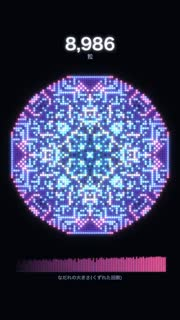
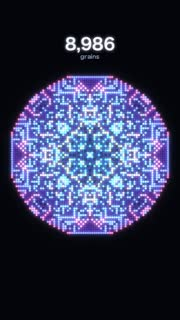
要の上のランク「完了」を足す。sandpile を完了に(本番の動画へのリンク、サムネも新しい版に)

diff --git a/index.html b/index.html
@@ -3,7 +3,7 @@
 <meta name="viewport" content="width=device-width,initial-scale=1,viewport-fit=cover">
 <title>shorts2d 絞り込み</title>
 <style>
-:root{--bg:#0b0d12;--card:#151821;--fg:#e8ebf2;--sub:#8a93a6;--yes:#3ddc84;--hold:#f5c542;--no:#ff5a6a}
+:root{--bg:#0b0d12;--card:#151821;--fg:#e8ebf2;--sub:#8a93a6;--done:#5aa9ff;--yes:#3ddc84;--hold:#f5c542;--no:#ff5a6a}
 *{box-sizing:border-box}
 body{margin:0;background:var(--bg);color:var(--fg);font-family:-apple-system,"Hiragino Sans","Noto Sans JP",sans-serif}
 header{position:sticky;top:0;z-index:5;background:rgba(11,13,18,.96);padding:8px 10px 6px;border-bottom:1px solid #222}
@@ -17,15 +17,15 @@ h1{font-size:16px;margin:0 0 4px}
 .note{font-size:11px;color:var(--sub)}
 main{display:grid;grid-template-columns:repeat(auto-fill,minmax(150px,1fr));gap:10px;padding:10px}
 .card{background:var(--card);border-radius:10px;overflow:hidden;border:3px solid transparent}
-.card.yes{border-color:var(--yes)}.card.hold{border-color:var(--hold)}.card.no{border-color:var(--no);opacity:.45}
+.card.done{border-color:var(--done)}.card.yes{border-color:var(--yes)}.card.hold{border-color:var(--hold)}.card.no{border-color:var(--no);opacity:.45}
 .card a{display:block}
 .card img{width:100%;aspect-ratio:9/16;display:block;object-fit:cover;background:#000}
 .t{font-size:13px;font-weight:600;padding:6px 7px 0;line-height:1.3}
 .d{font-size:11px;color:var(--sub);padding:2px 7px 0;line-height:1.35;max-height:4.1em;overflow:hidden}
 .n{font-size:10px;color:#5d6577;padding:2px 7px 0}
 .seg{display:flex;gap:4px;padding:7px}
-.seg button{flex:1;padding:9px 0;border-radius:7px;border:0;background:#232838;color:var(--fg);font-size:14px}
-.seg button.yes.on{background:var(--yes);color:#000}.seg button.hold.on{background:var(--hold);color:#000}.seg button.no.on{background:var(--no);color:#000}
+.seg button{flex:1;padding:9px 0;border-radius:7px;border:0;background:#232838;color:var(--fg);font-size:13px}
+.seg button.done.on{background:var(--done);color:#000}.seg button.yes.on{background:var(--yes);color:#000}.seg button.hold.on{background:var(--hold);color:#000}.seg button.no.on{background:var(--no);color:#000}
 #toast{position:fixed;left:50%;bottom:24px;transform:translateX(-50%);background:#fff;color:#000;padding:8px 14px;border-radius:18px;font-size:14px;display:none;z-index:9}
 </style></head><body>
 <header>
@@ -33,28 +33,33 @@ main{display:grid;grid-template-columns:repeat(auto-fill,minmax(150px,1fr));gap:
 <div class="counts" id="counts"></div>
 <div class="row" id="filters"></div>
 <div class="row"><button class="act" onclick="send()">結果を送る(Issue)</button><button class="act" onclick="copy()">結果をコピー</button></div>
-<div class="note">サムネを押すと動画(60秒の確認用)が開きます。動画を開くには GitHub へのログインが要ります。選んだ結果はこのブラウザに保存されます。</div>
+<div class="note">サムネを押すと動画(60秒の確認用。完了は本番)が開きます。動画を開くには GitHub へのログインが要ります。選んだ結果はこのブラウザに保存されます。</div>
 </header>
 <main id="grid"></main>
 <div id="toast"></div>
 <script>
-const DATA = [{"i": 1, "name": "apollonian_gasket", "title": "整数の円のガスケット", "desc": "すき間に接する円を大きい順に入れると、曲率(1/半径)が全部整数。拡大しても整数", "url": "https://github.com/seoooma/shorts2d/releases/download/previews/apollonian_gasket_60s_preview.mp4"}, {"i": 2, "name": "brachistochrone", "title": "最速降下線", "desc": "A から B へ玉を転がす5本の道で競争するとサイクロイドが勝つ。しかもサイクロイドのおわんは、どこから放しても同じ時間で底に着く", "url": "https://github.com/seoooma/shorts2d/releases/download/previews/brachistochrone_60s_preview.mp4"}, {"i": 3, "name": "chladni", "title": "砂が描く模様", "desc": "震える板の上の砂が、揺れない線(節)に集まる", "url": "https://github.com/seoooma/shorts2d/releases/download/previews/chladni_60s_preview.mp4"}, {"i": 4, "name": "clifford_attractor", "title": "形を変える光の霧", "desc": "7つの星が霧に広がり、ねじれ・裂け・また7つの星に縮んで、また霧に", "url": "https://github.com/seoooma/shorts2d/releases/download/previews/clifford_attractor_60s_preview.mp4"}, {"i": 5, "name": "cyclotron", "title": "サイクロトロン", "desc": "同じテンポで押すだけで、粒は速くなりながららせんを描いて飛び出す。重さの違う粒は取り残される", "url": "https://github.com/seoooma/shorts2d/releases/download/previews/cyclotron_60s_preview.mp4"}, {"i": 6, "name": "dragon_fold", "title": "紙を折るドラゴン", "desc": "紙テープを半分に折って開くことをくり返すと、竜の形(ドラゴン曲線)になり、4匹で平面をうめる", "url": "https://github.com/seoooma/shorts2d/releases/download/previews/dragon_fold_60s_preview.mp4"}, {"i": 7, "name": "ellipse_foci", "title": "楕円の焦点で増える玉", "desc": "玉が焦点の○を通るたびに、そこから新しい玉が1個出る", "url": "https://github.com/seoooma/shorts2d/releases/download/previews/ellipse_foci_60s_preview.mp4"}, {"i": 8, "name": "figure_eight_3body", "title": "8の字を追う三体", "desc": "同じ並びから速さを変えて放すと、3つの星が8の字・蝶・蛾・毛糸玉を描いて元に戻る。少しずらすと崩れて1つが飛び去る", "url": "https://github.com/seoooma/shorts2d/releases/download/previews/figure_eight_3body_60s_preview.mp4"}, {"i": 9, "name": "firefly_sync", "title": "ホタルがそろう", "desc": "1000匹がばらばらに光る → 合わせる力 K が臨界をこえると一気に同じ拍 → K を下げるとまたばらばら", "url": "https://github.com/seoooma/shorts2d/releases/download/previews/firefly_sync_60s_preview.mp4"}, {"i": 10, "name": "fourier_circles", "title": "回る円で絵を描く", "desc": "回る円を大きい順に鎖のようにつなぐと、先端が ♪・π・ハート・星を描く(フーリエ級数)", "url": "https://github.com/seoooma/shorts2d/releases/download/previews/fourier_circles_60s_preview.mp4"}, {"i": 11, "name": "genetic_cars", "title": "Genetic algorithm cars", "desc": "40 random car shapes evolve to cross a bumpy road (like BoxCar2D)", "url": "https://github.com/seoooma/shorts2d/releases/download/previews/genetic_cars_60s_preview.mp4"}, {"i": 12, "name": "genetic_rockets", "title": "世代ごとに賢くなるロケット", "desc": "遺伝的アルゴリズムで、200機がすき間を見つけてゴールへ", "url": "https://github.com/seoooma/shorts2d/releases/download/previews/genetic_rockets_60s_preview.mp4"}, {"i": 13, "name": "hanoi_music", "title": "ハノイの塔の旋律", "desc": "9枚の円盤を 511 手で右の棒へ。動かす円盤の並びは「ものさし」の目盛りと同じ形", "url": "https://github.com/seoooma/shorts2d/releases/download/previews/hanoi_music_60s_preview.mp4"}, {"i": 14, "name": "life_methuselah", "title": "5マスが1103世代暴れる", "desc": "ライフゲームの R-ペントミノ。たった5マスが増えて、グライダーを撃ち出し、1103世代で静まる", "url": "https://github.com/seoooma/shorts2d/releases/download/previews/life_methuselah_60s_preview.mp4"}, {"i": 15, "name": "logistic_bifurcation", "title": "分岐の音を聴く", "desc": "r を上げると 1→2→4→8→カオス、周期3の窓、拡大すると同じ形", "url": "https://github.com/seoooma/shorts2d/releases/download/previews/logistic_bifurcation_60s_preview.mp4"}, {"i": 16, "name": "mandel_julia", "title": "マンデルブロとジュリア", "desc": "光る点 c が M のふちをなぞると、下のジュリア集合がうさぎ・竜・木の枝に変わり、外へ出ると粉々に", "url": "https://github.com/seoooma/shorts2d/releases/download/previews/mandel_julia_60s_preview.mp4"}, {"i": 17, "name": "maze_solver", "title": "迷路を作って解く", "desc": "穴掘り法で迷路を掘り、入口から幅優先探索で虹色の水を流して、最短の道を光らせる", "url": "https://github.com/seoooma/shorts2d/releases/download/previews/maze_solver_60s_preview.mp4"}, {"i": 18, "name": "pendulum_wave", "title": "振り子の波", "desc": "長さのちがう24本の振り子を同時に放すと、波・列・ばらばらを経て、57秒でぴたりとそろう", "url": "https://github.com/seoooma/shorts2d/releases/download/previews/pendulum_wave_60s_preview.mp4"}, {"i": 19, "name": "penrose_deflation", "title": "終わらないペンローズ", "desc": "10枚の三角形の「太陽」を黄金比で割り続けると、ペンローズのタイルになり、どこまでも拡大できる", "url": "https://github.com/seoooma/shorts2d/releases/download/previews/penrose_deflation_60s_preview.mp4"}, {"i": 20, "name": "perlin_silk", "title": "パーリンノイズの絹糸", "desc": "ノイズの値を「流れの向き」にして2万粒を流すと、軌跡が絹糸のように束になる", "url": "https://github.com/seoooma/shorts2d/releases/download/previews/perlin_silk_60s_preview.mp4"}, {"i": 21, "name": "pi_blocks", "title": "ぶつかる回数がπ", "desc": "壁と2つの箱(Galperin の箱)。重さの比を 1:1 → 1:100 → 1:100² → 1:100³ と上げると、3 → 31 → 314 → 3141 回", "url": "https://github.com/seoooma/shorts2d/releases/download/previews/pi_blocks_60s_preview.mp4"}, {"i": 22, "name": "prime_spirals", "title": "素数のらせん", "desc": "ふるいで残った素数を、四角いらせん(ウラム)から極座標 (半径 n, 角度 n ラジアン) へ移すと、渦と筋が現れる", "url": "https://github.com/seoooma/shorts2d/releases/download/previews/prime_spirals_60s_preview.mp4"}, {"i": 23, "name": "rayleigh_benard", "title": "下から温める水", "desc": "底の熱がキノコ形の柱で一斉に昇り、回る対流になり、火を強めると乱れ、止めると静まる", "url": "https://github.com/seoooma/shorts2d/releases/download/previews/rayleigh_benard_60s_preview.mp4"}, {"i": 24, "name": "ring_escape", "title": "回る輪から逃げる玉", "desc": "20重の回る輪のすき間を、重力で跳ねる玉が抜けるたびに輪が光の粒に砕け、玉が2個に増える", "url": "https://github.com/seoooma/shorts2d/releases/download/previews/ring_escape_60s_preview.mp4"}, {"i": 25, "name": "sandpile", "title": "砂山の曼荼羅", "desc": "真ん中に砂を落とし続け、4粒たまった所は上下左右へ1粒ずつ配る(アーベルの砂山モデル)", "url": "https://github.com/seoooma/shorts2d/releases/download/previews/sandpile_60s_preview.mp4"}, {"i": 26, "name": "snake_hamilton", "title": "画面を埋めつくすヘビ", "desc": "ハミルトン閉路と安全な近道のスネーク AI が、18×32 の 576 マスを全部ヘビにする", "url": "https://github.com/seoooma/shorts2d/releases/download/previews/snake_hamilton_60s_preview.mp4"}, {"i": 27, "name": "sorting_rainbow", "title": "並べ替えの虹", "desc": "円の周りの360本の棒(長さと色が値)を、5つのアルゴリズムで順に並べ替える", "url": "https://github.com/seoooma/shorts2d/releases/download/previews/sorting_rainbow_60s_preview.mp4"}, {"i": 28, "name": "swarmalators", "title": "動いて そろう粒", "desc": "1000粒が、2つのつまみ J・K の切り替えで 1色の円盤 → 虹の輪 → ちぎれた扇 → 回る輪 に変身する", "url": "https://github.com/seoooma/shorts2d/releases/download/previews/swarmalators_60s_preview.mp4"}, {"i": 29, "name": "tetris_ai", "title": "AIがテトリスで1000行消す", "desc": "全部の置き方を Dellacherie の評価関数で採点して、いちばん点の高い所に置く", "url": "https://github.com/seoooma/shorts2d/releases/download/previews/tetris_ai_60s_preview.mp4"}, {"i": 30, "name": "times_table_circle", "title": "円の掛け算表", "desc": "円の上の200個の点で、k 番と m×k 番(200で割った余り)を線で結ぶ。m を増やすと形が次々に変わる", "url": "https://github.com/seoooma/shorts2d/releases/download/previews/times_table_circle_60s_preview.mp4"}];
+const DATA = [{"i": 25, "name": "sandpile", "title": "砂山の曼荼羅", "desc": "真ん中に砂を落とし続け、4粒たまった所は上下左右へ1粒ずつ配る(アーベルの砂山モデル)", "rank": "done", "url": "https://github.com/seoooma/shorts2d/releases/download/finals/sandpile_60s.mp4"}, {"i": 6, "name": "dragon_fold", "title": "紙を折るドラゴン", "desc": "紙テープを半分に折って開くことをくり返すと、竜の形(ドラゴン曲線)になり、4匹で平面をうめる", "rank": "yes", "url": "https://github.com/seoooma/shorts2d/releases/download/previews/dragon_fold_60s_preview.mp4"}, {"i": 7, "name": "ellipse_foci", "title": "楕円の焦点で増える玉", "desc": "玉が焦点の○を通るたびに、そこから新しい玉が1個出る", "rank": "yes", "url": "https://github.com/seoooma/shorts2d/releases/download/previews/ellipse_foci_60s_preview.mp4"}, {"i": 10, "name": "fourier_circles", "title": "回る円で絵を描く", "desc": "回る円を大きい順に鎖のようにつなぐと、先端が ♪・π・ハート・星を描く(フーリエ級数)", "rank": "yes", "url": "https://github.com/seoooma/shorts2d/releases/download/previews/fourier_circles_60s_preview.mp4"}, {"i": 12, "name": "genetic_rockets", "title": "世代ごとに賢くなるロケット", "desc": "遺伝的アルゴリズムで、200機がすき間を見つけてゴールへ", "rank": "yes", "url": "https://github.com/seoooma/shorts2d/releases/download/previews/genetic_rockets_60s_preview.mp4"}, {"i": 13, "name": "hanoi_music", "title": "ハノイの塔の旋律", "desc": "9枚の円盤を 511 手で右の棒へ。動かす円盤の並びは「ものさし」の目盛りと同じ形", "rank": "yes", "url": "https://github.com/seoooma/shorts2d/releases/download/previews/hanoi_music_60s_preview.mp4"}, {"i": 14, "name": "life_methuselah", "title": "5マスが1103世代暴れる", "desc": "ライフゲームの R-ペントミノ。たった5マスが増えて、グライダーを撃ち出し、1103世代で静まる", "rank": "yes", "url": "https://github.com/seoooma/shorts2d/releases/download/previews/life_methuselah_60s_preview.mp4"}, {"i": 15, "name": "logistic_bifurcation", "title": "分岐の音を聴く", "desc": "r を上げると 1→2→4→8→カオス、周期3の窓、拡大すると同じ形", "rank": "yes", "url": "https://github.com/seoooma/shorts2d/releases/download/previews/logistic_bifurcation_60s_preview.mp4"}, {"i": 18, "name": "pendulum_wave", "title": "振り子の波", "desc": "長さのちがう24本の振り子を同時に放すと、波・列・ばらばらを経て、57秒でぴたりとそろう", "rank": "yes", "url": "https://github.com/seoooma/shorts2d/releases/download/previews/pendulum_wave_60s_preview.mp4"}, {"i": 24, "name": "ring_escape", "title": "回る輪から逃げる玉", "desc": "20重の回る輪のすき間を、重力で跳ねる玉が抜けるたびに輪が光の粒に砕け、玉が2個に増える", "rank": "yes", "url": "https://github.com/seoooma/shorts2d/releases/download/previews/ring_escape_60s_preview.mp4"}, {"i": 27, "name": "sorting_rainbow", "title": "並べ替えの虹", "desc": "円の周りの360本の棒(長さと色が値)を、5つのアルゴリズムで順に並べ替える", "rank": "yes", "url": "https://github.com/seoooma/shorts2d/releases/download/previews/sorting_rainbow_60s_preview.mp4"}, {"i": 29, "name": "tetris_ai", "title": "AIがテトリスで1000行消す", "desc": "全部の置き方を Dellacherie の評価関数で採点して、いちばん点の高い所に置く", "rank": "yes", "url": "https://github.com/seoooma/shorts2d/releases/download/previews/tetris_ai_60s_preview.mp4"}, {"i": 30, "name": "times_table_circle", "title": "円の掛け算表", "desc": "円の上の200個の点で、k 番と m×k 番(200で割った余り)を線で結ぶ。m を増やすと形が次々に変わる", "rank": "yes", "url": "https://github.com/seoooma/shorts2d/releases/download/previews/times_table_circle_60s_preview.mp4"}, {"i": 1, "name": "apollonian_gasket", "title": "整数の円のガスケット", "desc": "すき間に接する円を大きい順に入れると、曲率(1/半径)が全部整数。拡大しても整数", "rank": "hold", "url": "https://github.com/seoooma/shorts2d/releases/download/previews/apollonian_gasket_60s_preview.mp4"}, {"i": 2, "name": "brachistochrone", "title": "最速降下線", "desc": "A から B へ玉を転がす5本の道で競争するとサイクロイドが勝つ。しかもサイクロイドのおわんは、どこから放しても同じ時間で底に着く", "rank": "hold", "url": "https://github.com/seoooma/shorts2d/releases/download/previews/brachistochrone_60s_preview.mp4"}, {"i": 3, "name": "chladni", "title": "砂が描く模様", "desc": "震える板の上の砂が、揺れない線(節)に集まる", "rank": "hold", "url": "https://github.com/seoooma/shorts2d/releases/download/previews/chladni_60s_preview.mp4"}, {"i": 4, "name": "clifford_attractor", "title": "形を変える光の霧", "desc": "7つの星が霧に広がり、ねじれ・裂け・また7つの星に縮んで、また霧に", "rank": "hold", "url": "https://github.com/seoooma/shorts2d/releases/download/previews/clifford_attractor_60s_preview.mp4"}, {"i": 5, "name": "cyclotron", "title": "サイクロトロン", "desc": "同じテンポで押すだけで、粒は速くなりながららせんを描いて飛び出す。重さの違う粒は取り残される", "rank": "hold", "url": "https://github.com/seoooma/shorts2d/releases/download/previews/cyclotron_60s_preview.mp4"}, {"i": 8, "name": "figure_eight_3body", "title": "8の字を追う三体", "desc": "同じ並びから速さを変えて放すと、3つの星が8の字・蝶・蛾・毛糸玉を描いて元に戻る。少しずらすと崩れて1つが飛び去る", "rank": "hold", "url": "https://github.com/seoooma/shorts2d/releases/download/previews/figure_eight_3body_60s_preview.mp4"}, {"i": 9, "name": "firefly_sync", "title": "ホタルがそろう", "desc": "1000匹がばらばらに光る → 合わせる力 K が臨界をこえると一気に同じ拍 → K を下げるとまたばらばら", "rank": "hold", "url": "https://github.com/seoooma/shorts2d/releases/download/previews/firefly_sync_60s_preview.mp4"}, {"i": 16, "name": "mandel_julia", "title": "マンデルブロとジュリア", "desc": "光る点 c が M のふちをなぞると、下のジュリア集合がうさぎ・竜・木の枝に変わり、外へ出ると粉々に", "rank": "hold", "url": "https://github.com/seoooma/shorts2d/releases/download/previews/mandel_julia_60s_preview.mp4"}, {"i": 17, "name": "maze_solver", "title": "迷路を作って解く", "desc": "穴掘り法で迷路を掘り、入口から幅優先探索で虹色の水を流して、最短の道を光らせる", "rank": "hold", "url": "https://github.com/seoooma/shorts2d/releases/download/previews/maze_solver_60s_preview.mp4"}, {"i": 19, "name": "penrose_deflation", "title": "終わらないペンローズ", "desc": "10枚の三角形の「太陽」を黄金比で割り続けると、ペンローズのタイルになり、どこまでも拡大できる", "rank": "hold", "url": "https://github.com/seoooma/shorts2d/releases/download/previews/penrose_deflation_60s_preview.mp4"}, {"i": 20, "name": "perlin_silk", "title": "パーリンノイズの絹糸", "desc": "ノイズの値を「流れの向き」にして2万粒を流すと、軌跡が絹糸のように束になる", "rank": "hold", "url": "https://github.com/seoooma/shorts2d/releases/download/previews/perlin_silk_60s_preview.mp4"}, {"i": 21, "name": "pi_blocks", "title": "ぶつかる回数がπ", "desc": "壁と2つの箱(Galperin の箱)。重さの比を 1:1 → 1:100 → 1:100² → 1:100³ と上げると、3 → 31 → 314 → 3141 回", "rank": "hold", "url": "https://github.com/seoooma/shorts2d/releases/download/previews/pi_blocks_60s_preview.mp4"}, {"i": 22, "name": "prime_spirals", "title": "素数のらせん", "desc": "ふるいで残った素数を、四角いらせん(ウラム)から極座標 (半径 n, 角度 n ラジアン) へ移すと、渦と筋が現れる", "rank": "hold", "url": "https://github.com/seoooma/shorts2d/releases/download/previews/prime_spirals_60s_preview.mp4"}, {"i": 23, "name": "rayleigh_benard", "title": "下から温める水", "desc": "底の熱がキノコ形の柱で一斉に昇り、回る対流になり、火を強めると乱れ、止めると静まる", "rank": "hold", "url": "https://github.com/seoooma/shorts2d/releases/download/previews/rayleigh_benard_60s_preview.mp4"}, {"i": 26, "name": "snake_hamilton", "title": "画面を埋めつくすヘビ", "desc": "ハミルトン閉路と安全な近道のスネーク AI が、18×32 の 576 マスを全部ヘビにする", "rank": "hold", "url": "https://github.com/seoooma/shorts2d/releases/download/previews/snake_hamilton_60s_preview.mp4"}, {"i": 28, "name": "swarmalators", "title": "動いて そろう粒", "desc": "1000粒が、2つのつまみ J・K の切り替えで 1色の円盤 → 虹の輪 → ちぎれた扇 → 回る輪 に変身する", "rank": "hold", "url": "https://github.com/seoooma/shorts2d/releases/download/previews/swarmalators_60s_preview.mp4"}, {"i": 11, "name": "genetic_cars", "title": "Genetic algorithm cars", "desc": "40 random car shapes evolve to cross a bumpy road (like BoxCar2D)", "rank": "", "url": "https://github.com/seoooma/shorts2d/releases/download/previews/genetic_cars_60s_preview.mp4"}];
 const KEY = "shorts2d-pick-v1";
-const LABEL = {yes: "要", hold: "保留", no: "不要"};
-let st = {};
-try { st = JSON.parse(localStorage.getItem(KEY) || "{}"); } catch (e) {}
+const RKEY = "shorts2d-pick-rank";   // 記録(docs/IDEAS.md)のランクを最後にそろえたときの値
+const LABEL = {done: "完了", yes: "要", hold: "保留", no: "不要"};
+let st = {}, applied = {};
+try { st = JSON.parse(localStorage.getItem(KEY) || "{}"); applied = JSON.parse(localStorage.getItem(RKEY) || "{}"); } catch (e) {}
+// 記録のランクが変わった動画(新しく完了になった など)だけ、選びを記録にそろえる
+DATA.forEach(v => { if (v.rank && applied[v.name] !== v.rank) { st[v.name] = v.rank; applied[v.name] = v.rank; } });
+localStorage.setItem(KEY, JSON.stringify(st));
+localStorage.setItem(RKEY, JSON.stringify(applied));
 let filter = "all";
-const FILTERS = [["all", "全部"], ["none", "未定"], ["yes", "要"], ["hold", "保留"], ["no", "不要"]];
+const FILTERS = [["all", "全部"], ["none", "未定"], ["done", "完了"], ["yes", "要"], ["hold", "保留"], ["no", "不要"]];
 
 function count() {
-  const c = {yes: 0, hold: 0, no: 0, none: 0};
+  const c = {done: 0, yes: 0, hold: 0, no: 0, none: 0};
   DATA.forEach(v => c[st[v.name] || "none"]++);
   return c;
 }
 function drawHeader() {
   const c = count();
   document.getElementById("counts").innerHTML =
-    `要 <b>${c.yes}</b> ・ 保留 <b>${c.hold}</b> ・ 不要 <b>${c.no}</b> ・ 未定 <b>${c.none}</b>`;
+    `完了 <b>${c.done}</b> ・ 要 <b>${c.yes}</b> ・ 保留 <b>${c.hold}</b> ・ 不要 <b>${c.no}</b> ・ 未定 <b>${c.none}</b>`;
   document.getElementById("filters").innerHTML = FILTERS.map(([k, l]) =>
     `<button class="${filter === k ? "on" : ""}" onclick="setFilter('${k}')">${l}</button>`).join("");
 }
@@ -64,7 +69,7 @@ function card(v) {
   return `<div class="card ${s}" id="c-${v.name}">
 <a href="${v.url}" target="_blank" rel="noopener"><img loading="lazy" src="thumbs/${v.name}.jpg" alt=""></a>
 <div class="t">${v.i}. ${v.title}</div><div class="d">${v.desc}</div><div class="n">${v.name}</div>
-<div class="seg">${btn("yes")}${btn("hold")}${btn("no")}</div></div>`;
+<div class="seg">${btn("done")}${btn("yes")}${btn("hold")}${btn("no")}</div></div>`;
 }
 function drawGrid() {
   document.getElementById("grid").innerHTML = DATA
@@ -82,9 +87,9 @@ function pick(name, k) {
 }
 function setFilter(k) { filter = k; drawHeader(); drawGrid(); window.scrollTo(0, 0); }
 function result() {
-  const g = {yes: [], hold: [], no: [], none: []};
+  const g = {done: [], yes: [], hold: [], no: [], none: []};
   DATA.forEach(v => g[st[v.name] || "none"].push(`${v.i} ${v.name}`));
-  return [["要", g.yes], ["保留", g.hold], ["不要", g.no], ["未定", g.none]]
+  return [["完了", g.done], ["要", g.yes], ["保留", g.hold], ["不要", g.no], ["未定", g.none]]
     .map(([l, a]) => `${l}(${a.length}): ${a.join(", ")}`).join("\n");
 }
 function toast(m) { const t = document.getElementById("toast"); t.textContent = m; t.style.display = "block"; setTimeout(() => t.style.display = "none", 1800); }
